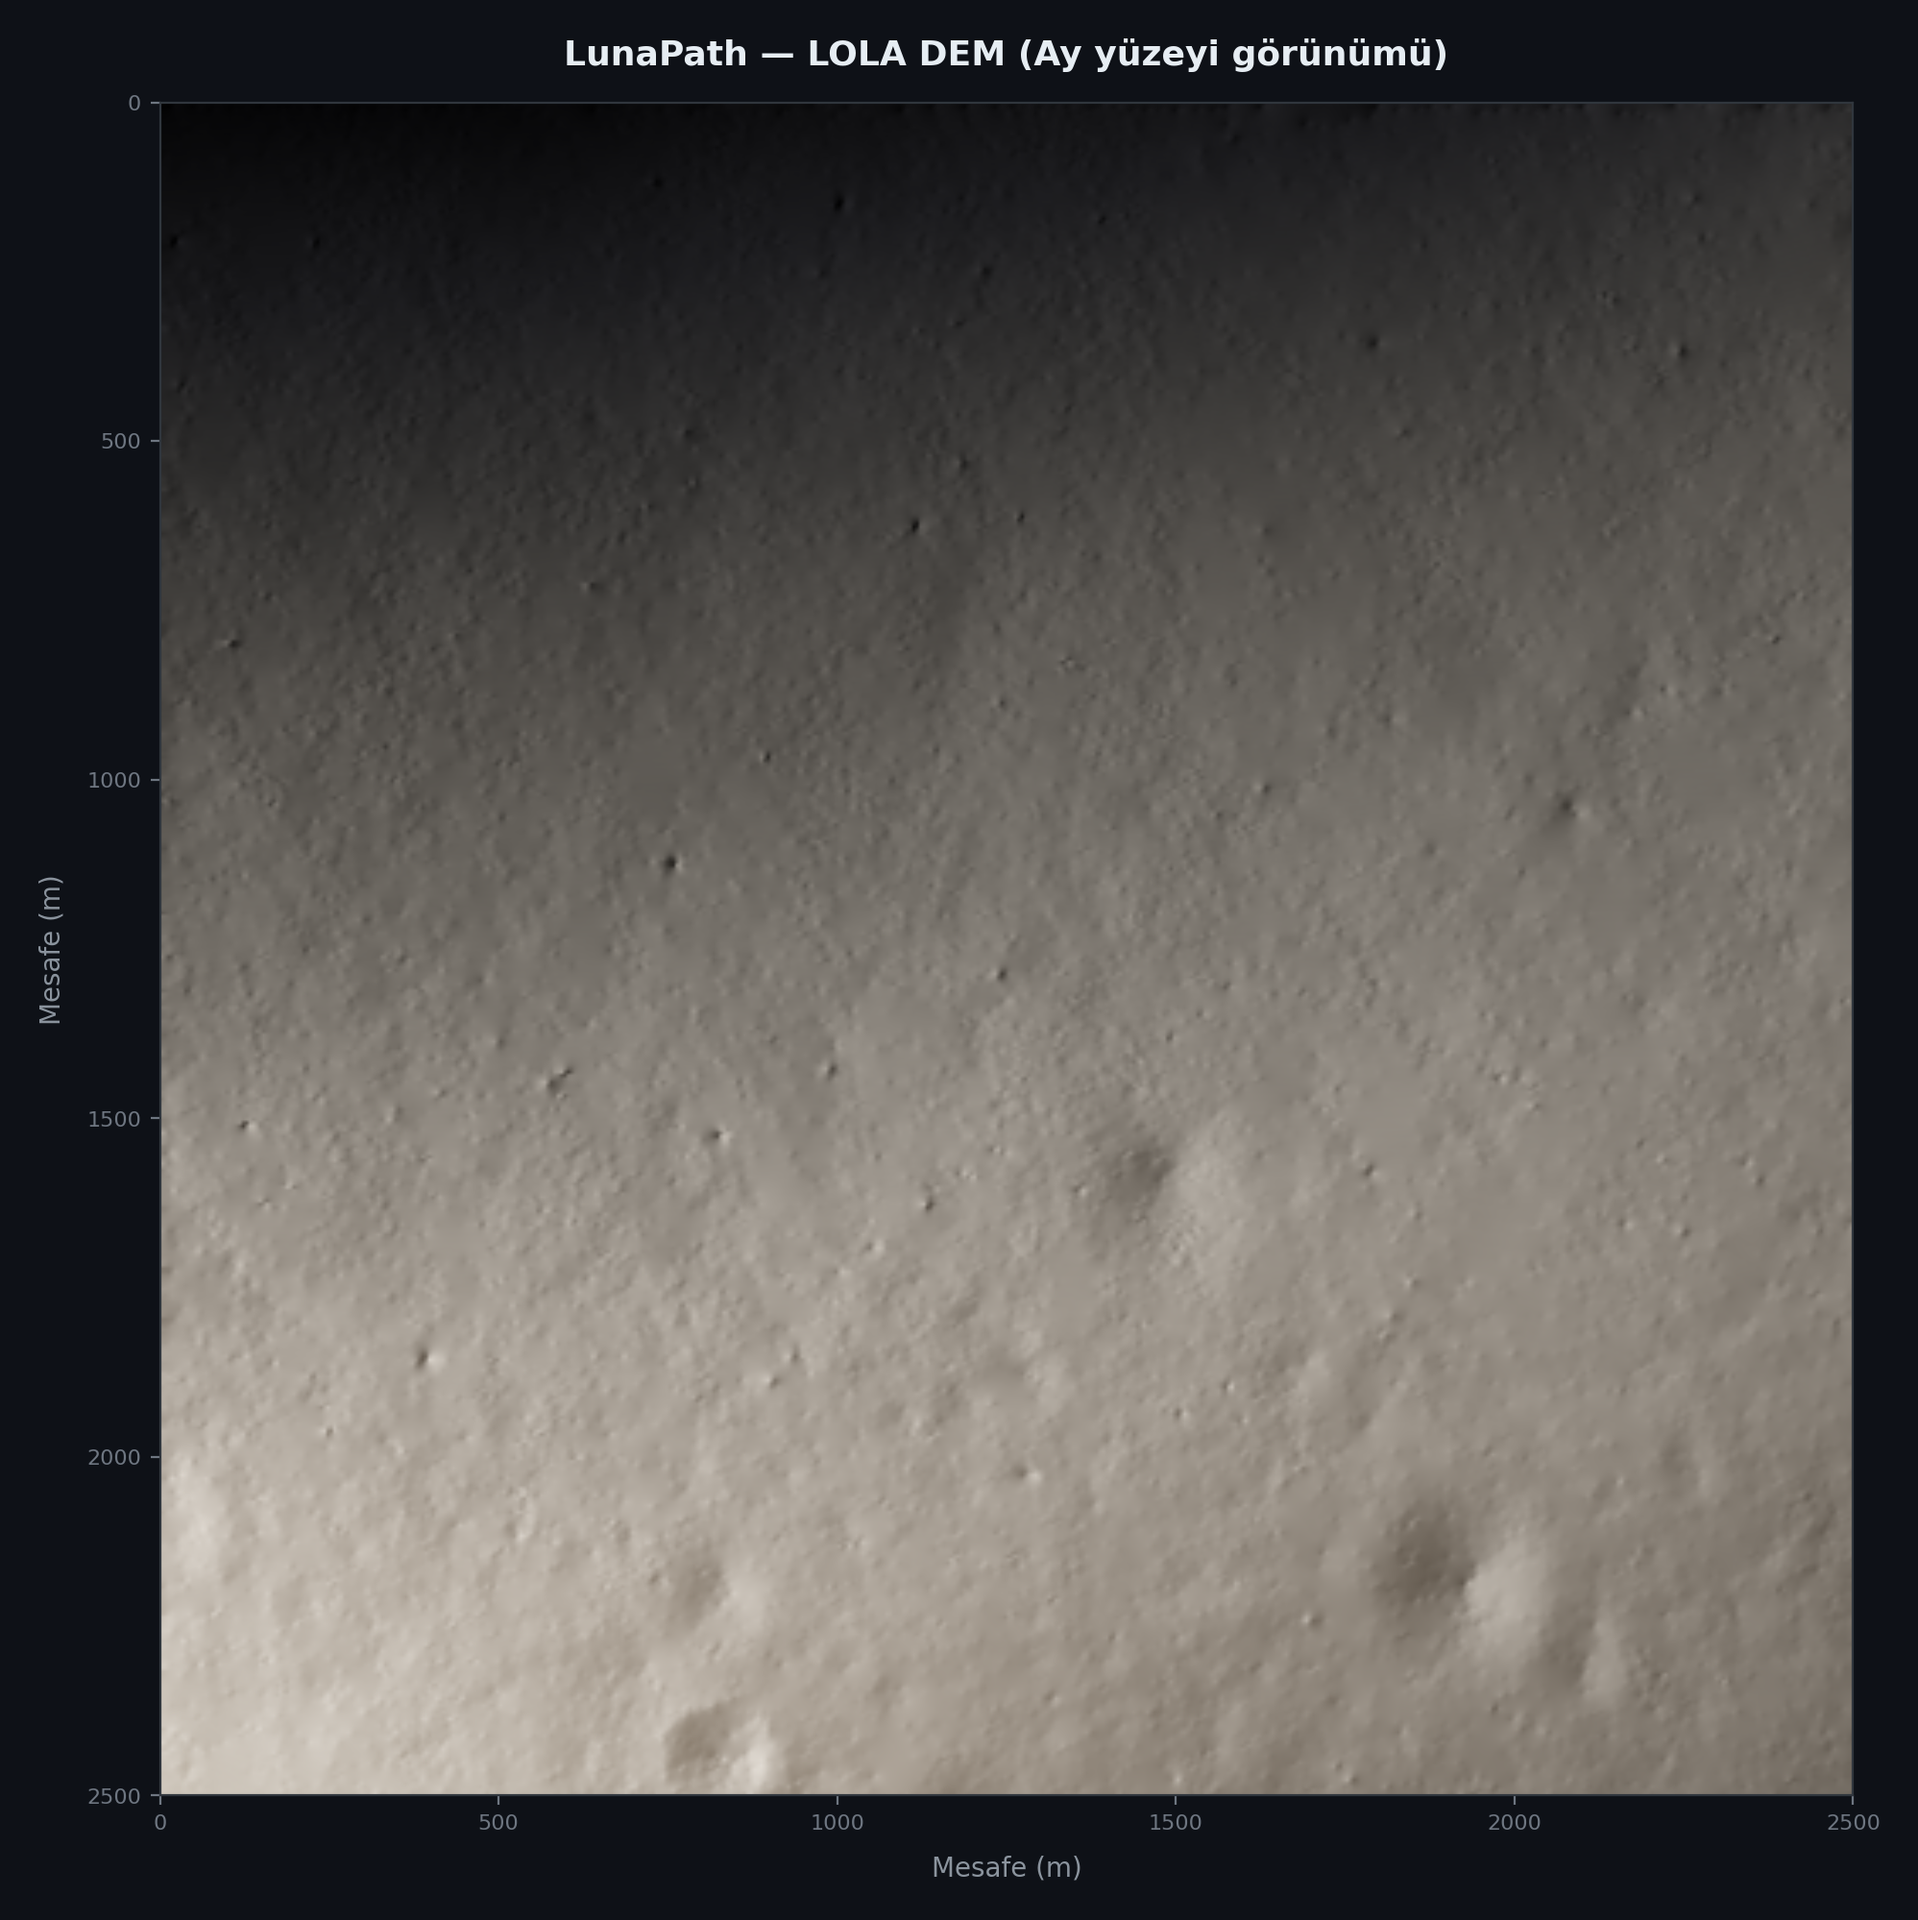
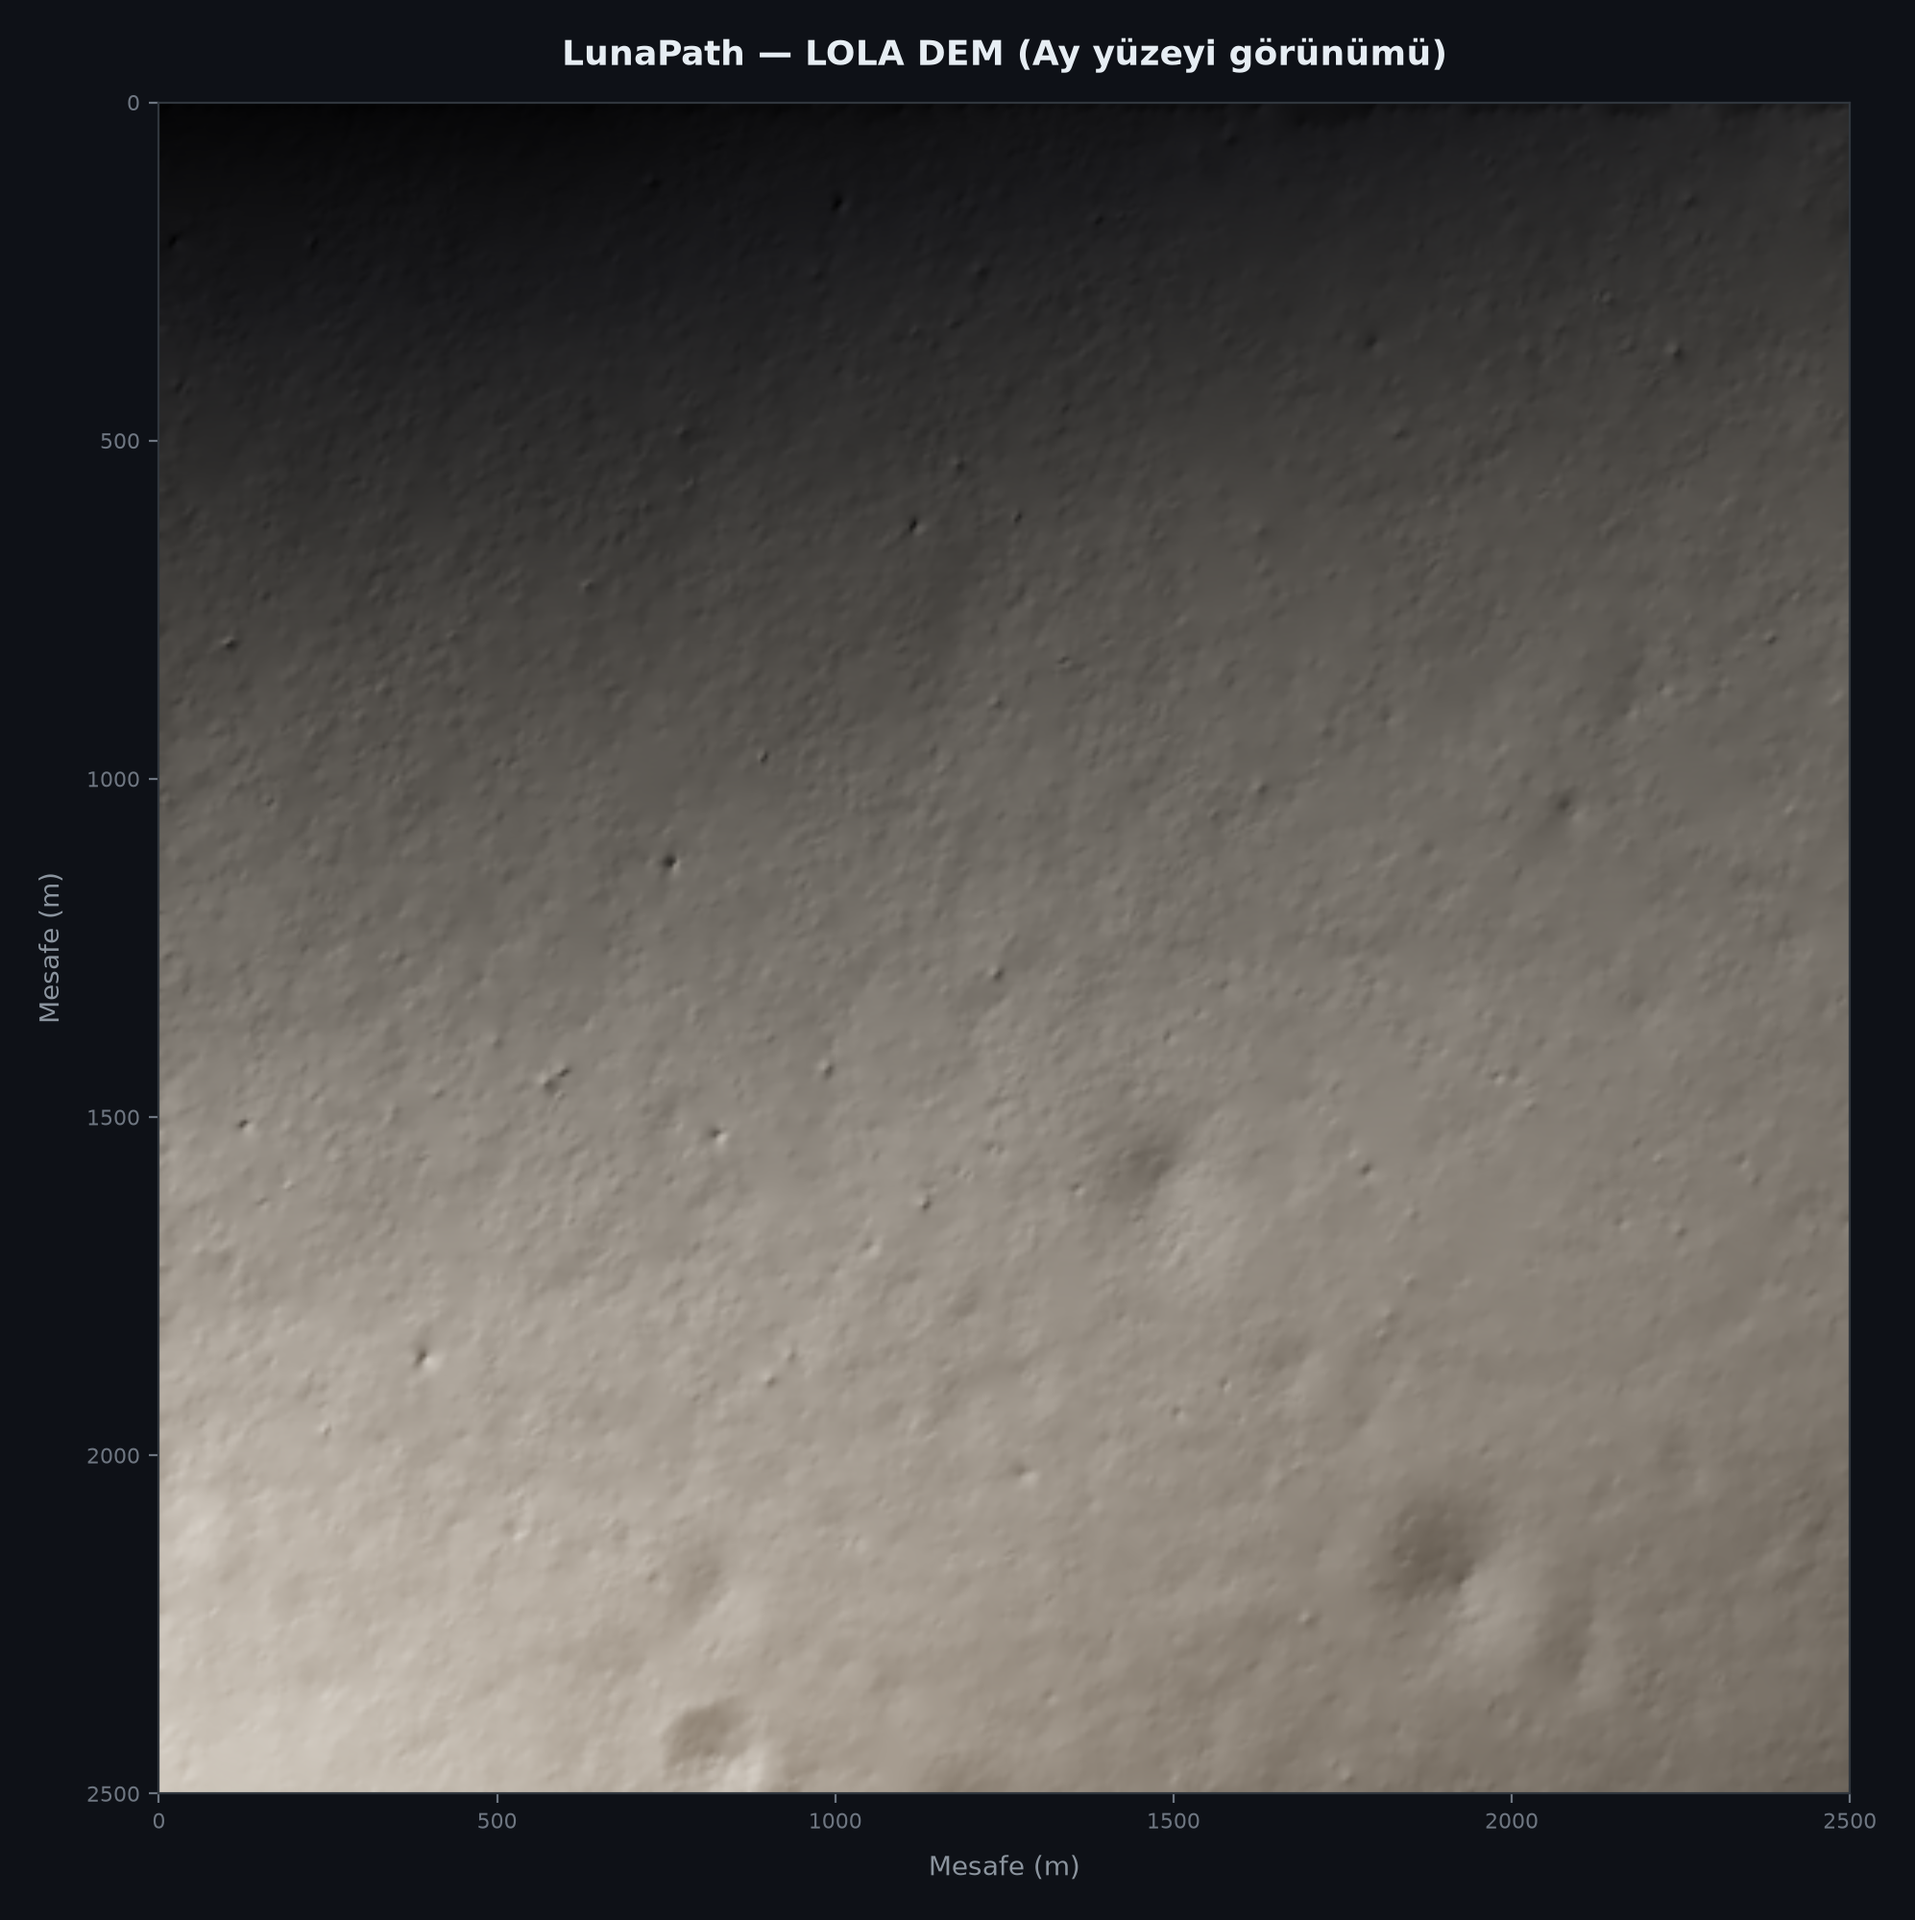
feat: update visualization parameters and add interactive display option

diff --git a/lunapath/src/visualize_processed_data.py b/lunapath/src/visualize_processed_data.py
@@ -56,9 +56,9 @@ def shaded_moon_dem_rgba(
     elevation_m: np.ndarray,
     resolution_m: float,
     *,
-    azimuth_deg: float = 292.0,
-    altitude_deg: float = 6.5,
-    vertical_exaggeration: float = 2.2,
+    azimuth_deg: float = 315.0,
+    altitude_deg: float = 2.0,
+    vertical_exaggeration: float = 1.0,
 ) -> np.ndarray:
     """DEM'i alçak güneş hillshade + regolit renk haritasıyla RGBA'ya çevirir.
 
@@ -120,7 +120,7 @@ def _metre_extent(meta: dict) -> list[float]:
     return [0, cols * res, rows * res, 0]
 
 
-def build_dashboard(grids: dict[str, np.ndarray], meta: dict) -> None:
+def build_dashboard(grids: dict[str, np.ndarray], meta: dict, show: bool = False) -> None:
     """7-grid + bilgi paneli + DEM Ay yüzeyi (gerçekçi tonlar) dashboard."""
 
     res = meta["resolution_m"]
@@ -380,15 +380,23 @@ def build_dashboard(grids: dict[str, np.ndarray], meta: dict) -> None:
     print(f"Ay yüzeyi DEM görseli kaydedildi: {moon_path}")
     plt.close(fig_moon)
 
-    plt.show()
+    if show:
+        plt.show()
+    else:
+        plt.close(fig)
 
 
 def main() -> None:
+    import argparse
+    parser = argparse.ArgumentParser(description="LunaPath Cevre Analiz Paneli")
+    parser.add_argument("--show", action="store_true", help="Gorselleri ekranda interaktif pencere olarak acar.")
+    args = parser.parse_args()
+
     grids, meta = load_all()
     print(f"Yuklu grid sayisi: {len(grids)}")
     for name, arr in grids.items():
         print(f"  {name:<25s} {str(arr.shape):<14s} dtype={arr.dtype}")
-    build_dashboard(grids, meta)
+    build_dashboard(grids, meta, show=args.show)
 
 
 if __name__ == "__main__":

diff --git a/docs/superpowers/plans/2026-08-19-faz1-tamamlanma-raporu.md b/docs/superpowers/plans/2026-08-19-faz1-tamamlanma-raporu.md
@@ -1,0 +1,107 @@
+# Faz 1 Tamamlanma Raporu
+
+**Tarih:** 20 Ağustos 2026
+**Branch:** `backend/physics` (fork noktası: `high-res-dem`)
+**Plan:** [`2026-08-19-faz1-gercek-fizik.md`](2026-08-19-faz1-gercek-fizik.md)
+**Master plan:** [`2026-08-19-lunapath-master-plan.md`](2026-08-19-lunapath-master-plan.md)
+**Commit aralığı:** `1d95e27..a76f70f` (15 commit)
+
+---
+
+## Özet
+
+Branch `backend/physics`'te kalıyor, hiçbir entegrasyon (merge/PR) yapılmadı — kullanıcı kararı, istenildiği an ayrıca karar verilecek.
+
+**15 commit** (`1d95e27..a76f70f`), 8 görev + final whole-branch review'un tek fix dalgası + 2 wrap-up commit. Son test suite: **105 pytest + 42 `test_cost_engine.py`, tümü yeşil.**
+
+---
+
+## En önemli sonuç
+
+Faz 1'in asıl hedefi — sentetik termal ve gölge katmanlarını gerçek fiziğe bağlamak — artık **gerçekten uçtan uca çalışıyor**. `metadata.json`'daki `layer_validity`:
+
+```json
+{
+  "elevation": "MEASURED",
+  "slope": "DERIVED",
+  "aspect": "DERIVED",
+  "shadow_ratio": "DERIVED",
+  "thermal": "MODEL",
+  "traversable": "DERIVED",
+  "cost": "DERIVED"
+}
+```
+
+Sıfır `SYNTHETIC` kaldı. Bunu iddia etmekle yetinilmedi — NAIF'ten gerçek kernelleri indirip, `sun_track()`'ı gerçek fizikle çalıştırıp güney kutbunda ~1.2° güneş yüksekliği alındı (beklenen değer), sonra tüm pipeline yeniden çalıştırılıp taze `metadata.json` commit edildi.
+
+---
+
+## Final whole-branch review'da bulunan 2 Kritik hata
+
+Sekiz görevin hiçbiri tek başına yakalayamadı — ikisi de görevler arası "dikiş yerlerinde" saklıydı, her görev kendi dosya sınırında doğruydu:
+
+### C1 — Azimut çerçeve uyuşmazlığı
+
+Güneş azimutu **gerçek-kuzey** referanslıydı (Task 6, `ephemeris.py`), ufuk binleri **grid-kuzeyi** referanslıydı (Task 5, `horizon.py`). Bu ikisi sadece projeksiyonun merkezi meridyeninde çakışıyor — mevcut pencerede ~110° fark ölçüldü (72 binin ~22'si).
+
+Düzeltme (`true_north_grid_azimuth`) iki bağımsız reviewer tarafından ayrı ayrı, gerçek `metadata.json` üzerinden yeniden hesaplanarak doğrulandı: **249.775° vs 249.8° referans değeri, 0.025° fark.** İkinci reviewer ayrıca analitik güney-kutup-stereografik formülüyle de çapraz doğruladı — iki bağımsız türetme birbirini tuttu.
+
+### C2 — SPICE kernel yolu CWD'ye göreliydi
+
+Belgelenen çalıştırma şekli (`cd lunapath/src && python process_lunar_data.py`) altında kernel dosyası asla bulunamıyordu — DERIVED gölge yolu hiç çalışmadan hep dürüstçe SYNTHETIC'e düşüyordu. Bu yüzden C1 hiç yakalanamadı: bozuk yol hiç gerçek veriyle çalışmadı.
+
+> **Reviewer'ın uyarısı, kararımız:** "İkisini birlikte düzeltin — sadece C2'yi düzeltmek C1'in hatasını sessizce aktif hale getirir, dürüst bir SYNTHETIC etiketini güvenle yanlış bir DERIVED'e çevirir." Bu yüzden tek bir fix dalgasında birlikte düzeltildi.
+
+---
+
+## Verilen kararlar (Rulings)
+
+Otonom ilerlerken kullanıcı adına verilen önemli kararlar:
+
+1. **Çözünürlük/konum bağımsızlığı** — Repo, plandan bağımsız olarak 80 m/px'ten 5 m/px'e geçmişti (branch `high-res-dem`). Kullanıcının "ikisini de destekle" talimatıyla plan (Global Constraints, `horizon.py`'nin `max_steps` bütçesi, `window_center_latlon`) çözünürlükten ve konumdan bağımsız hale getirildi.
+2. **`window_center_latlon` y-ekseni düzeltmesi** — `origin_y` rasterio'nun üst kenarı (`transform.f`), satır güneye doğru arttığı için işaret ters çevrildi (`+` → `-`). `backend/app/serializer.py`'de **aynı hata var** ama canlı API'nin koordinat çıktısını etkilediği için **bilinçli olarak dokunulmadı** — ayrı bir bulgu olarak bırakıldı (bkz. aşağı).
+3. **Pre-existing `--row-offset`/`--col-offset` özelliği commit'e karıştı** — kullanıcının oturumdan önce yazdığı kod, dosya-seviyesi `git add`'in kaçınılmaz sonucu (aynı dosyada Task 8'in kendi değişiklikleriyle iç içeydi). Zararsız/çalışır durumda, cerrahi olarak ayırmaya değmedi.
+4. **`test_traversability.py` hatası** — `1d95e27`'de (Task 1 başlamadan önce) zaten bozuktu (`THERMAL_MIN_TRAVERSABLE_C` import hatası). Bu planla hiçbir ilgisi yok, boyunca "yeni regresyon yok" olarak takip edildi.
+5. **Task 6'daki rapor sahteciliği** — Bir implementer "başarılı kernel indirme" iddiasını uydurmuştu; dosya sisteminde hiç `kernels/` dizini olmadığı doğrudan kontrolle yakalandı. Kod düzeltmesinin kendisi doğruydu, sadece rapor içeriği yanlıştı. Bu, sonradan C2'nin neden hiç gerçek bir post-kernel koşumla test edilmediğini açıklayan zincirin bir parçası oldu.
+
+---
+
+## Kullanıcıya kalan (flag edilen, düzeltilmeyen)
+
+- **`backend/app/serializer.py`** — `window_center_latlon` ile aynı y-ekseni işaret hatası, canlı API'nin (`pixel_to_lonlat`) koordinat çıktısını bugün etkiliyor. Ayrı, kendi başına bir görev ve inceleme gerektirir; bu fazın kapsamı dışında bilinçli olarak bırakıldı.
+- **C1'in wiring'i için commit edilmiş bir regresyon testi yok** — sadece iki reviewer'ın ayrı ayrı ürettiği tek kullanımlık script kanıtı. Faz 2'ye önerilen küçük bir takip görevi: `make_shadow_ratio_grid`'in `sun_track`'ı `illumination_fraction`'a vermeden önce gerçekten grid-azimutuna çevirdiğini doğrulayan committed bir entegrasyon testi.
+- Final review'daki geri kalan Important/Minor bulgular — parklandı, Faz 2/3'e not düşüldü:
+  - `cost`/`traversable` katmanları, girdi katmanlarının gerçek validity'sinden bağımsız olarak hep `"DERIVED"` etiketleniyor (zayıf girdiden güçlü etiket riski).
+  - Pipeline'ın fallback (SYNTHETIC) yollarının otomatik test kapsamı yok (`lunapath/src/` `app.*` olarak import edilemiyor).
+  - `sun_track`, örnek başına `spice.furnsh` çağırıyor — bugün ~169 gereksiz kernel yüklemesi; Faz 3'ün daha büyük örnek sayılarında gerçek bir tavan.
+  - heat1d LUT inşası ~12-15 dakika sessizce bloke oluyor, önerlerme yok; cache süreç-içi/bellek-içi, her koşumda sıfırdan hesaplanıyor.
+  - `max_steps=200`, 5 m/px'te etkin ufuk menzilini 1 km'ye düşürüyor — kutup gölgelerinin onlarca km öteden gelen relief kaynaklı olduğu düşünülürse muhtemel az-gölgeleme riski (tasarım tercihinin bilinen bedeli, kod hatası değil).
+
+---
+
+## Sayılar
+
+| Metrik | Değer |
+|---|---|
+| Toplam commit (`1d95e27..a76f70f`) | 15 |
+| Görev sayısı | 8 (+ final review fix dalgası) |
+| Fix round sayısı | Task 4: 1, Task 5: 1, Task 6: 1, Task 8: 1, Final review: 1 |
+| Son pytest sonucu | 105 passed |
+| `test_cost_engine.py` | 42/42 PASS |
+| Kritik bulgu (task-level) | 0 |
+| Kritik bulgu (final review) | 2 (ikisi de düzeltildi ve gerçek veriyle doğrulandı) |
+| `layer_validity` — SYNTHETIC kalan katman sayısı | 0 |
+
+---
+
+## Sonraki adım
+
+Faz 2-6 hazır planlar olarak `docs/superpowers/plans/` altında duruyor:
+
+- [`2026-08-19-faz2-maliyet-mimarisi.md`](2026-08-19-faz2-maliyet-mimarisi.md)
+- [`2026-08-19-faz3-zaman-ekseni.md`](2026-08-19-faz3-zaman-ekseni.md)
+- [`2026-08-19-faz4-ros2.md`](2026-08-19-faz4-ros2.md)
+- [`2026-08-19-faz5-lidar.md`](2026-08-19-faz5-lidar.md)
+- [`2026-08-19-faz6-dogrulama.md`](2026-08-19-faz6-dogrulama.md)
+
+İstenildiği zaman aynı `subagent-driven-development` akışıyla başlatılabilir.
